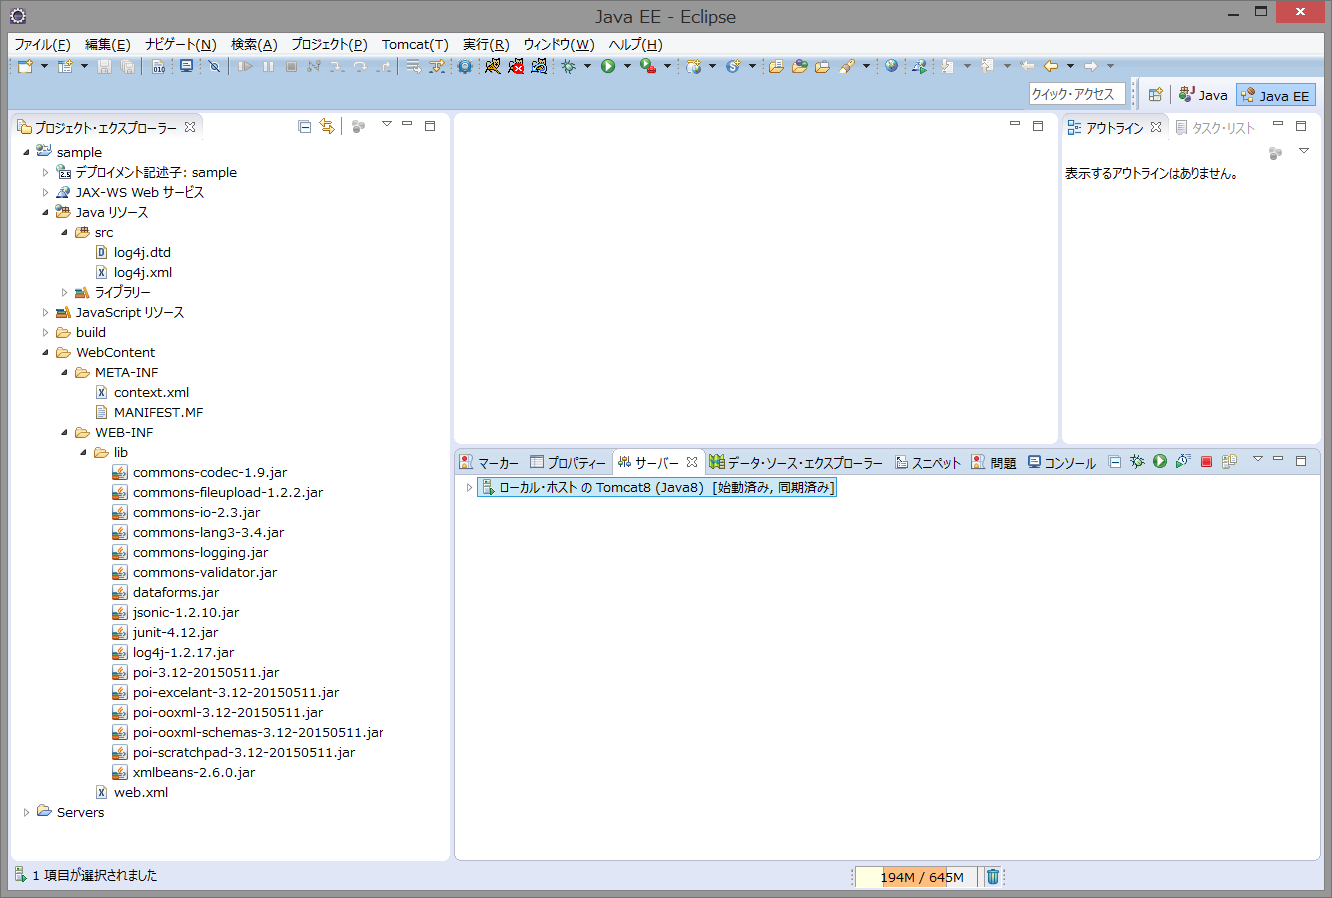
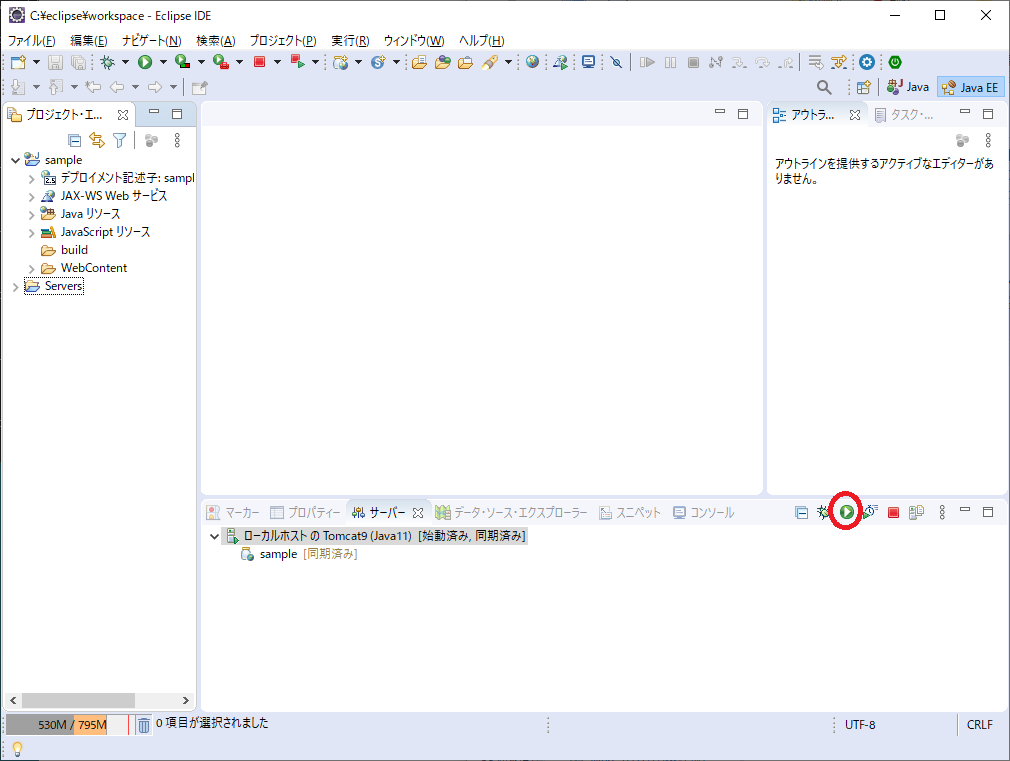
ドキュメントの更新。

Changed region(s): [[0.0, 0.0, 1.0, 1.0]]

diff --git a/HTML/META-INF/resources/doc/tutorial1/index.html b/HTML/META-INF/resources/doc/tutorial1/index.html
@@ -11,18 +11,17 @@
 		<h1><span>2.</span>開発環境構築</h1>
 		<h2>Eclipseを用意する</h2>
 		<p>
-			日本語環境でよく使われているEclipse 4.5 Mars Pleiades All in Oneを例に、開発環境の構築と簡単なアプリケーションの開発手順を説明します。
-			基本的にjava8 + tomcat8の開発ができるものであれば、開発環境の構築が可能だと思いますが、まだ試していません。
+			日本語環境でよく使われているEclipse YYYY-MM Pleiades All in Oneを例に、開発環境の構築と簡単なアプリケーションの開発手順を説明します。
+			基本的にjava11 + tomcat9の開発ができるものであれば、開発環境の構築が可能だと思います。
 		</p>
 		<p>
-			<a href="http://mergedoc.osdn.jp/index.html#pleiades.html" target="_blank">Pleiades - Eclipse プラグイン日本語化プラグイン</a>のサイトから、Eclipse 4.5 Mars Pleiades All in Oneを
-			ダウンロードします。今回はpleiades-e4.5-java-jre_20160312.zipというファイル名のものを使用しました。
-			このzipファイルをC:\pleiades-e4.5に展開します。
+			<a href="http://mergedoc.osdn.jp/index.html#pleiades.html" target="_blank">Pleiades - Eclipse プラグイン日本語化プラグイン</a>のサイトから、Eclipse YYYY-MM Pleiades All in Oneを
+			ダウンロードします。今回はpleiades-2020-03-java-win-64bit-jre_20200322.zipというファイル名のものを使用しました。
+			このzipファイルをC:\eclipse\pleiades202003に展開します。
 		</p>
 		<p>
-			展開したEclipseを起動し、デフォルトのWorkspaceを作成します。
-			その後、JavaEEのパースペクティブを開きます。
-			この状態でサーバビューを開きます。
+			展開したEclipseを起動し、ワークスペースC:\eclipse\workspaceを作成します。
+			その後、JavaEEのパースペクティブを選択しサーバビューを開きます。
 		</p>
 		<figure>
 			<figcaption>Eclipseを起動しサーバービューを表示した状態</figcaption>
@@ -36,16 +35,16 @@
 			<img src="eclipse_start01.png" style="width:50%; height:50%;"/>
 		</figure>
 		<figure>
-			<figcaption>Tomcat8が追加された状態</figcaption>
+			<figcaption>Tomcat9(Java11)が追加された状態</figcaption>
 			<img src="eclipse_start02.png" style="width:50%; height:50%;"/>
 		</figure>
 		<h2>データベースを用意する</h2>
 		<p>
-			dataforms.jarを動かすためには、何らかのデータベースが必要になります。
+			dataforms2.jarを動かすためには、何らかのデータベースが必要になります。
 			通常Tomcatからデータベースを使うには、サーバソフトを別にセットアップし、それに接続するためのjdbcドライバをTomcatにインストールします。<br/>
 			サーバーソフトの設定はいろいろ面倒なので、ここでは組込み用Apache Derbyを使用します。<br/>
 			<a href="https://db.apache.org/derby/" target="_blank">Apache Derby</a>のサイトよりdb-derby-&lt;version&gt;-bin.zipダウンロードし、
-			その中に含まれているderby.jar,derby_ja_JP.jarをTOMCAT_HOME/lib(今回はC:\pleiades-e4.5\tomcat\8\lib)にコピーしてください。
+			その中に含まれているlib/derby*.jarを全てTOMCAT_HOME/lib(今回はC:\eclipse\pleiades202003\tomcat\9\lib)にコピーしてください。
 			これだけでデータベース(apache derby)が使えるようになります。
 		</p>
 		<h2>Java mailのインストール</h2>
@@ -53,13 +52,13 @@
 			外部ユーザ登録機能を使う場合、JavaMailをTomcatにインストールします。
 			<a href="https://github.com/javaee/javamail" target="_blank">https://github.com/javaee/javamail</a>のreleasesからjavax.mail.jarをダウンロードし、
 			TOMCAT_HOME/libにコピーしてください。
-			またjava9以上を使う場合は、JavaBeans Activation Framework (JAF)も必要になります。
-			<a href="https://github.com/javaee/activation" target="_blank">https://github.com/javaee/activation</a>のreleasesからactivation.jarをダウンロードし、
+			また、JavaBeans Activation Framework (JAF)も必要になります。
+			<a href="https://github.com/javaee/activation" target="_blank">https://github.com/javaee/activation</a>のreleasesからjavax.activation.jarをダウンロードし、
 			TOMCAT_HOME/libにコピーしてください。
 		</p>
 		<h2>プロジェクトの作成</h2>
 		<p>
-			<a href="https://github.com/takayanagi2087/dataforms/releases" target="_blank">ブランクアプリケーションダウンロードサイト</a>から、dataforms.jarのブランクアプリケーション(dfblank_xxx.war)をダウンロードして下さい。
+			<a href="https://github.com/takayanagi2087/dataforms2/releases" target="_blank">ブランクアプリケーションダウンロードサイト</a>から、dataforms2.jarのブランクアプリケーション(dfblank_xxx.war)をダウンロードして下さい。
 			ダウンロードしたwarファイルは、eclipseプロジェクトとしてインポートすることができます。
 			Eclipseのプロジェクト・エクスプローラーを右クリックし「インポート」→「WARファイル」とメニューを選択します。
 		</p>
@@ -68,93 +67,233 @@
 			<img src="eclipse_proj00.png" style="width:50%; height:50%;"/>
 		</figure>
 		<p>
-			プロジェクト名は何でもよいのですが、とりあえずsampleとし、ターゲットランタイムはTomcat8(java8)を選択し、「完了」ボタンを押してください。
-			dataforms.jarはServlet 3.0とjava8の機能を使用しています。そのためtomcat7 + java8でも動作します。
+			プロジェクト名はとりあえずsampleとし、ターゲットランタイムはTomcat9(java11)を選択し、「完了」ボタンを押してください。
 		</p>
 		<figure>
 			<figcaption>インポートされたプロジェクト</figcaption>
 			<img src="eclipse_proj01.png" style="width:50%; height:50%;"/>
 		</figure>
 		<p>
-			作成したプロジェクトをtomcat8に追加します。サーバビューのtomcat8を右クリックし、「追加および消去」を選択します。
+			作成したプロジェクトをTomcat9に追加します。サーバビューのTomcat9(Java11)を右クリックし、「追加および消去」を選択します。
 		</p>
 		<figure>
-			<figcaption>Tomcat8に作成したプロジェクトを追加</figcaption>
+			<figcaption>Tomcat9(Java11)に作成したプロジェクトを追加</figcaption>
 			<img src="eclipse_proj03.png" style="width:50%; height:50%;"/>
 		</figure>
 		<p>
-			以下のダイアログが表示されるので、sampleを追加し、完了ボタンを押下します。
+			以下のダイアログが表示されるので、sampleを追加し完了ボタンを押下します。
 		</p>
 		<figure>
 			<figcaption>追加および消去ダイアログ</figcaption>
 			<img src="eclipse_proj04.png" style="width:50%; height:50%;"/>
 		</figure>
 		<p>
-			この操作の結果、以下のようにtomcat8にsampleプロジェクトが追加されます。
+			この操作の結果、以下のようにTomcat9(Java11)にsampleプロジェクトが追加されます。
 		</p>
 		<figure>
 			<figcaption>プロジェクト追加後のサーバビュー</figcaption>
 			<img src="eclipse_proj05.png" style="width:50%; height:50%;"/>
 		</figure>
 		<p>
-			これで、空の動的WEBプロジェクトができました。
-			作成された結果は以下のようになっています。
+			これで空の動的WEBプロジェクトができました。
+			作成されたプロジェクトは以下のようになっています。
 		</p>
 		<div class="filecaption">プロジェクトファイル一覧</div>
 		<div class="wrappre">
 			<pre>
 ./src
-./src/log4j.dtd
-./src/log4j.xml
+./src/log4j2.xml
 ./WebContent
+./WebContent/frame
+./WebContent/frame/default
+./WebContent/frame/default/AppFrame.css
+./WebContent/frame/default/AppFramePC.css
+./WebContent/frame/default/AppFrameSP.css
+./WebContent/frame/default/AppFrameTB.css
+./WebContent/frame/messages
+./WebContent/frame/messages/AppClientMessages.properties
+./WebContent/frame/messages/AppClientMessages_ja.properties
+./WebContent/frame/messages/AppMessages.properties
+./WebContent/frame/messages/AppMessages_ja.properties
 ./WebContent/index.html
 ./WebContent/META-INF
 ./WebContent/META-INF/context.xml
 ./WebContent/META-INF/MANIFEST.MF
 ./WebContent/WEB-INF
+./WebContent/WEB-INF/apachefop
+./WebContent/WEB-INF/apachefop/fop.xconf
+./WebContent/WEB-INF/dbRebuild
+./WebContent/WEB-INF/dbRebuild/derby
+./WebContent/WEB-INF/dbRebuild/derby/after.sql
+./WebContent/WEB-INF/dbRebuild/derby/before.sql
+./WebContent/WEB-INF/dbRebuild/mysql
+./WebContent/WEB-INF/dbRebuild/mysql/after.sql
+./WebContent/WEB-INF/dbRebuild/mysql/before.sql
+./WebContent/WEB-INF/dbRebuild/oracle
+./WebContent/WEB-INF/dbRebuild/oracle/after.sql
+./WebContent/WEB-INF/dbRebuild/oracle/before.sql
+./WebContent/WEB-INF/dbRebuild/pgsql
+./WebContent/WEB-INF/dbRebuild/pgsql/after.sql
+./WebContent/WEB-INF/dbRebuild/pgsql/before.sql
 ./WebContent/WEB-INF/lib
-./WebContent/WEB-INF/lib/commons-codec-1.9.jar
-./WebContent/WEB-INF/lib/commons-fileupload-1.2.2.jar
-./WebContent/WEB-INF/lib/commons-io-2.3.jar
-./WebContent/WEB-INF/lib/commons-lang3-3.4.jar
-./WebContent/WEB-INF/lib/commons-logging.jar
-./WebContent/WEB-INF/lib/commons-validator.jar
-./WebContent/WEB-INF/lib/dataforms.jar
-./WebContent/WEB-INF/lib/jsonic-1.2.10.jar
-./WebContent/WEB-INF/lib/junit-4.12.jar
-./WebContent/WEB-INF/lib/log4j-1.2.17.jar
-./WebContent/WEB-INF/lib/poi-3.12-20150511.jar
-./WebContent/WEB-INF/lib/poi-excelant-3.12-20150511.jar
-./WebContent/WEB-INF/lib/poi-ooxml-3.12-20150511.jar
-./WebContent/WEB-INF/lib/poi-ooxml-schemas-3.12-20150511.jar
-./WebContent/WEB-INF/lib/poi-scratchpad-3.12-20150511.jar
-./WebContent/WEB-INF/lib/xmlbeans-2.6.0.jar
+./WebContent/WEB-INF/lib/batik-all-1.12.jar
+./WebContent/WEB-INF/lib/commons-codec-1.13.jar
+./WebContent/WEB-INF/lib/commons-collections4-4.4.jar
+./WebContent/WEB-INF/lib/commons-compress-1.19.jar
+./WebContent/WEB-INF/lib/commons-fileupload-1.4.jar
+./WebContent/WEB-INF/lib/commons-io-1.3.1.jar
+./WebContent/WEB-INF/lib/commons-lang3-3.10.jar
+./WebContent/WEB-INF/lib/commons-logging-1.0.4.jar
+./WebContent/WEB-INF/lib/commons-logging-1.2.jar
+./WebContent/WEB-INF/lib/commons-math3-3.6.1.jar
+./WebContent/WEB-INF/lib/commons-text-1.8.jar
+./WebContent/WEB-INF/lib/commons-validator-1.6.jar
+./WebContent/WEB-INF/lib/curvesapi-1.06.jar
+./WebContent/WEB-INF/lib/dataforms2.jar
+./WebContent/WEB-INF/lib/fontbox-2.0.16.jar
+./WebContent/WEB-INF/lib/fop.jar
+./WebContent/WEB-INF/lib/jsonic-1.3.10.jar
+./WebContent/WEB-INF/lib/log4j-api-2.13.2.jar
+./WebContent/WEB-INF/lib/log4j-core-2.13.2.jar
+./WebContent/WEB-INF/lib/poi-4.1.2.jar
+./WebContent/WEB-INF/lib/poi-excelant-4.1.2.jar
+./WebContent/WEB-INF/lib/poi-ooxml-4.1.2.jar
+./WebContent/WEB-INF/lib/poi-ooxml-schemas-4.1.2.jar
+./WebContent/WEB-INF/lib/poi-scratchpad-4.1.2.jar
+./WebContent/WEB-INF/lib/serializer-2.7.2.jar
+./WebContent/WEB-INF/lib/SparseBitSet-1.2.jar
+./WebContent/WEB-INF/lib/xalan-2.7.2.jar
+./WebContent/WEB-INF/lib/xercesImpl-2.12.0.jar
+./WebContent/WEB-INF/lib/xmlbeans-3.1.0.jar
+./WebContent/WEB-INF/lib/xmlgraphics-commons-2.4.jar
 ./WebContent/WEB-INF/web.xml
 			</pre>
 		</div>
 		<p>
-			「/src」以下は、log4jの設定ファイルのみで、Javaのソースファイルはありません。
-			「/WebContent/META-INF/context.xml」には、テータベース(組込みdevby用)への接続設定が記載されています。
-			もしPostgreSQL,MySQL,Oracle等のデータベースを使用したい場合、tomcat8に該当のjdbcドライバをインストールし、context.xmlを書き換えてください。
+			「/src」以下は、log4j2の設定ファイル(log4j2.xml)のみで、Javaのソースファイルはありません。
+			「/WebContent/WEB-INF/lib」には、dataforms2.jarとdataforms2.jarが依存しているjarファイルが入っています。
+			Excel出力が不要であれば、poi関連のjarを削除することができます。
+			また、PDF出力が不要であれば、FOP関連のjarを削除することができます。
 		</p>
 		<p>
-			「/WebContent/WEB-INF/lib」には、dataforms.jarとdataforms.jarが使用しているjarファイルが入っています。
-			もしExcelレポート機能が不要であれば、poi関連のjarを削除することができます。
+			「/WebContent/META-INF/context.xml」には、テータベース(組込みdevby用)への接続設定が記載されています。
+			もしPostgreSQL,MySQL,Oracle等のデータベースを使用する場合、Tomcat9に該当のjdbcドライバをインストールしcontext.xmlを書き換えてください。
+			コメントに各種DBサーバの設定例を記述してありますので参考にしてください。
 		</p>
+		<p>
+			Apache derbyのJDBCドライバは制約違反発生時の制約名称を取得するAPIを持っているため、追加設定は必要ありません。
+			しかし、その他のJDBCドライバにはそのようなAPIがないため、エラーメッセージから制約名を取得するようになっています。
+			そのため、duplicateErrorMessageに一意制約時のエラーメッセージのパターン、
+			foreignKeyErrorMessageに外部制約違反時のエラーメッセージのパターンを記述する必要があります。
+			このメッセージはOSの言語設定やDBサーバのバージョンによって異なる可能性があるため、
+			制約名が取得できない場合は適切に変更する必要があります。
+		</p>
+		<div class="filecaption">/WebContent/META-INF/context.xml</div>
+		<div class="wrappre">
+			<pre>
+
+&lt;?xml version=&quot;1.0&quot; encoding=&quot;UTF-8&quot;?&gt;
+&lt;!DOCTYPE Context&gt;
+&lt;Context&gt;
+	&lt;!--
+		&#32068;&#12415;&#36796;&#12415;Apache derby&#29992;&#12398;&#25509;&#32154;&#35373;&#23450;
+		Apache derby&#12398;JDBC&#12489;&#12521;&#12452;&#12496;&#12399;&#21046;&#32004;&#21517;&#31216;&#12434;&#21462;&#24471;&#12377;&#12427;API&#12364;&#12354;&#12427;&#12383;&#12417;
+		duplicateErrorMessage&#12392;foreignKeyErrorMessage&#12398;&#35373;&#23450;&#12399;&#19981;&#35201;&#12290;
+	 --&gt;
+	&lt;Resource auth=&quot;Container&quot;
+		driverClassName=&quot;org.apache.derby.jdbc.EmbeddedDriver&quot;
+		name=&quot;jdbc/dfdb&quot; type=&quot;javax.sql.DataSource&quot;
+		url=&quot;jdbc:derby:./javadb/blankdb;create=true&quot;
+		username=&quot;&quot; password=&quot;&quot; /&gt;
+	&lt;!--
+		Apache derby&#12493;&#12483;&#12488;&#12527;&#12540;&#12463;&#12469;&#12540;&#12496;&#29992;&#12398;&#25509;&#32154;&#35373;&#23450;
+		Apache derby&#12398;JDBC&#12489;&#12521;&#12452;&#12496;&#12399;&#21046;&#32004;&#21517;&#31216;&#12434;&#21462;&#24471;&#12377;&#12427;API&#12364;&#12354;&#12427;&#12383;&#12417;
+		duplicateErrorMessage&#12392;foreignKeyErrorMessage&#12398;&#35373;&#23450;&#12399;&#19981;&#35201;&#12290;
+	--&gt;
+	&lt;!--
+	&lt;Resource auth=&quot;Container&quot; driverClassName=&quot;org.apache.derby.jdbc.ClientDriver&quot;
+		maxActive=&quot;8&quot; maxIdle=&quot;4&quot; name=&quot;jdbc/dfdb&quot; type=&quot;javax.sql.DataSource&quot;
+		url=&quot;jdbc:derby://localhost:1527/javadb/blankdb;create=true&quot; username=&quot;APP&quot;
+		password=&quot;password&quot; /&gt;
+	--&gt;
+
+	&lt;!--
+		PostgreSQL&#29992;&#12398;&#25509;&#32154;&#35373;&#23450;
+		&#21046;&#32004;&#36949;&#21453;&#12398;&#22580;&#21512;&#12289;&#21046;&#32004;&#21517;&#12399;&#12456;&#12521;&#12540;&#12513;&#12483;&#12475;&#12540;&#12472;&#12363;&#12425;&#21462;&#24471;&#12377;&#12427;&#12398;&#12391;&#12289;
+		&#19968;&#24847;&#21046;&#32004;&#21517;&#21462;&#24471;&#29992;&#12398;&#27491;&#35215;&#34920;&#29694;&#12434;duplicateErrorMessage&#12289;
+		&#22806;&#37096;&#12461;&#12540;&#21046;&#32004;&#29992;&#21517;&#21462;&#24471;&#29992;&#12398;&#27491;&#35215;&#34920;&#29694;&#12434;foreignKeyErrorMessage&#12395;&#35373;&#23450;&#12375;&#12414;&#12377;&#12290;
+	 --&gt;
+	&lt;!--
+	&lt;Resource name=&quot;jdbc/dfdb&quot; type=&quot;javax.sql.DataSource&quot;
+		auth=&quot;Container&quot; driverClassName=&quot;org.postgresql.Driver&quot;
+		url=&quot;jdbc:postgresql://192.168.56.102:5432/blankdb&quot; username=&quot;postgres&quot;
+		password=&quot;&quot; /&gt;
+	&lt;Environment name=&quot;duplicateErrorMessage&quot; value=&quot;&#19968;&#24847;&#24615;&#21046;&#32004;&quot;(.+?)&quot;&#12395;&#36949;&#21453;&quot; type=&quot;java.lang.String&quot; override=&quot;false&quot;/&gt;
+	&lt;Environment name=&quot;foreignKeyErrorMessage&quot; value=&quot;&#22806;&#37096;&#12461;&#12540;&#21046;&#32004;&quot;(.+?)&quot;&#12395;&#36949;&#21453;&quot; type=&quot;java.lang.String&quot; override=&quot;false&quot;/&gt;
+	--&gt;
+
+	&lt;!--
+		MariaDB&#29992;&#25509;&#32154;&#35373;&#23450;
+		MariaDB&#29992;&#12398;jdbc&#12489;&#12521;&#12452;&#12496;&#12540;&#12434;&#20351;&#29992;&#12377;&#12427;&#22580;&#21512;&#12398;&#35373;&#23450;&#12391;&#12377;&#12290;
+		&#21046;&#32004;&#36949;&#21453;&#12398;&#22580;&#21512;&#12289;&#21046;&#32004;&#21517;&#12399;&#12456;&#12521;&#12540;&#12513;&#12483;&#12475;&#12540;&#12472;&#12363;&#12425;&#21462;&#24471;&#12377;&#12427;&#12398;&#12391;&#12289;
+		&#19968;&#24847;&#21046;&#32004;&#21517;&#21462;&#24471;&#29992;&#12398;&#27491;&#35215;&#34920;&#29694;&#12434;duplicateErrorMessage&#12289;
+		&#22806;&#37096;&#12461;&#12540;&#21046;&#32004;&#29992;&#21517;&#21462;&#24471;&#29992;&#12398;&#27491;&#35215;&#34920;&#29694;&#12434;foreignKeyErrorMessage&#12395;&#35373;&#23450;&#12375;&#12414;&#12377;&#12290;
+	 --&gt;
+	&lt;!--
+	&lt;Resource name=&quot;jdbc/dfdb&quot; auth=&quot;Container&quot; type=&quot;javax.sql.DataSource&quot;
+		username=&quot;dfuser&quot; password=&quot;password&quot; driverClassName=&quot;org.mariadb.jdbc.Driver&quot;
+		url=&quot;jdbc:mysql://192.168.56.102/blankdb?useOldAliasMetadataBehavior=true&quot; /&gt;
+	&lt;Environment name=&quot;duplicateErrorMessage&quot; value=&quot;for key '(.+?)'$&quot; type=&quot;java.lang.String&quot; override=&quot;false&quot;/&gt;
+	&lt;Environment name=&quot;foreignKeyErrorMessage&quot; value=&quot;CONSTRAINT `(.+?)` FOREIGN KEY&quot; type=&quot;java.lang.String&quot; override=&quot;false&quot;/&gt;
+	--&gt;
+
+	&lt;!--
+		MySQL&#29992;&#25509;&#32154;&#35373;&#23450;
+		MySQL&#29992;&#12398;jdbc&#12489;&#12521;&#12452;&#12496;&#12540;&#12434;&#20351;&#29992;&#12377;&#12427;&#22580;&#21512;&#12398;&#35373;&#23450;&#12391;&#12377;&#12290;
+		&#21046;&#32004;&#36949;&#21453;&#12398;&#22580;&#21512;&#12289;&#21046;&#32004;&#21517;&#12399;&#12456;&#12521;&#12540;&#12513;&#12483;&#12475;&#12540;&#12472;&#12363;&#12425;&#21462;&#24471;&#12377;&#12427;&#12398;&#12391;&#12289;
+		&#19968;&#24847;&#21046;&#32004;&#21517;&#21462;&#24471;&#29992;&#12398;&#27491;&#35215;&#34920;&#29694;&#12434;duplicateErrorMessage&#12289;
+		&#22806;&#37096;&#12461;&#12540;&#21046;&#32004;&#29992;&#21517;&#21462;&#24471;&#29992;&#12398;&#27491;&#35215;&#34920;&#29694;&#12434;foreignKeyErrorMessage&#12395;&#35373;&#23450;&#12375;&#12414;&#12377;&#12290;
+	--&gt;
+	&lt;!--
+	&lt;Resource name=&quot;jdbc/dfdb&quot; auth=&quot;Container&quot; type=&quot;javax.sql.DataSource&quot;
+		username=&quot;dfuser&quot; password=&quot;password&quot; driverClassName=&quot;com.mysql.jdbc.Driver&quot;
+		url=&quot;jdbc:mysql://192.168.56.102/blankdb?generateSimpleParameterMetadata=true&amp;useInformationSchema=true&amp;useOldAliasMetadataBehavior=true&amp;characterEncoding=utf8&quot; /&gt;
+	&lt;Environment name=&quot;duplicateErrorMessage&quot; value=&quot;for key '(.+?)'$&quot; type=&quot;java.lang.String&quot; override=&quot;false&quot;/&gt;
+	&lt;Environment name=&quot;foreignKeyErrorMessage&quot; value=&quot;CONSTRAINT `(.+?)` FOREIGN KEY&quot; type=&quot;java.lang.String&quot; override=&quot;false&quot;/&gt;
+	--&gt;
+
+	&lt;!--
+		ORACLE&#29992;&#12398;&#25509;&#32154;&#35373;&#23450;
+		&#21046;&#32004;&#36949;&#21453;&#12398;&#22580;&#21512;&#12289;&#21046;&#32004;&#21517;&#12399;&#12456;&#12521;&#12540;&#12513;&#12483;&#12475;&#12540;&#12472;&#12363;&#12425;&#21462;&#24471;&#12377;&#12427;&#12398;&#12391;&#12289;
+		&#19968;&#24847;&#21046;&#32004;&#21517;&#21462;&#24471;&#29992;&#12398;&#27491;&#35215;&#34920;&#29694;&#12434;duplicateErrorMessage&#12289;
+		&#22806;&#37096;&#12461;&#12540;&#21046;&#32004;&#29992;&#21517;&#21462;&#24471;&#29992;&#12398;&#27491;&#35215;&#34920;&#29694;&#12434;foreignKeyErrorMessage&#12395;&#35373;&#23450;&#12375;&#12414;&#12377;&#12290;
+	--&gt;
+	&lt;!--
+	&lt;Resource name=&quot;jdbc/dfdb&quot; auth=&quot;Container&quot;
+		type=&quot;javax.sql.DataSource&quot; driverClassName=&quot;oracle.jdbc.OracleDriver&quot;
+		url=&quot;jdbc:oracle:thin:@192.168.56.102:1521:xe&quot;
+		username=&quot;dfuser&quot; password=&quot;password&quot;/&gt;
+	&lt;Environment name=&quot;duplicateErrorMessage&quot; value=&quot;constraint \(.+?\.(.+?)\) violated&quot; type=&quot;java.lang.String&quot; override=&quot;false&quot;/&gt;
+	&lt;Environment name=&quot;foreignKeyErrorMessage&quot; value=&quot;constraint \(.+?\.(.+?)\) violated &quot; type=&quot;java.lang.String&quot; override=&quot;false&quot;/&gt;
+	--&gt;
+&lt;/Context&gt;
+
+			</pre>
+		</div>
 		<p>
 			「/WebContent/WEB-INF/web.xml」にはアプリケーションの各種設定が記録されています。
-			dataforms.jar固有の設定も、web.xmlに記述するようになっています。
+			dataforms2.jar固有の設定も、web.xmlに記述するようになっています。
 			設定項目はweb.xml中のコメントを参照してください。
-			この状態でプロジェクトのクリーンビルドを行い、tomcat8を起動してください。
+			この状態でプロジェクトのクリーンビルドを行い、Tomcat9を起動してください。
 		</p>
 		<figure>
-			<figcaption>tomcat8を起動した状態</figcaption>
+			<figcaption>Tomcat9を起動した状態</figcaption>
 			<img src="eclipse_proj07.png" style="width:50%; height:50%;"/>
 		</figure>
 		<h2>プロジェクトの実行</h2>
 		<p>
 			tomcatを起動した後、WEBブラウザから"http://localhost:8080/sample/をアクセスすると以下のページが表示されます。
-			dataforms.jarの中には、Webアプリケーションを構築するためのライブラリだけでなく、ユーザ管理などの基本機能や開発ツールを含んでいます。
+			dataforms2.jarの中には、Webアプリケーションを構築するためのライブラリだけでなく、ユーザ管理などの基本機能や開発ツールを含んでいます。
 			初回の起動時にはデータベースの初期設定を行い、開発者権限を持ったユーザの登録するためのページが表示されます。
 		</p>
 		<figure>

diff --git a/src/dataforms/devtool/db/page/DeveloperEditForm.java b/src/dataforms/devtool/db/page/DeveloperEditForm.java
@@ -92,6 +92,9 @@ public class DeveloperEditForm extends EditForm {
 	@Override
 	protected Map<String, Object> queryData(final Map<String, Object> data) throws Exception {
 		Map<String, Object> ret = new HashMap<String, Object>();
+		String userLevel = this.getInitializeUserLvel();
+		ret.put("loginId", userLevel);
+		ret.put("userName", userLevel);
 		return ret;
 	}
 
